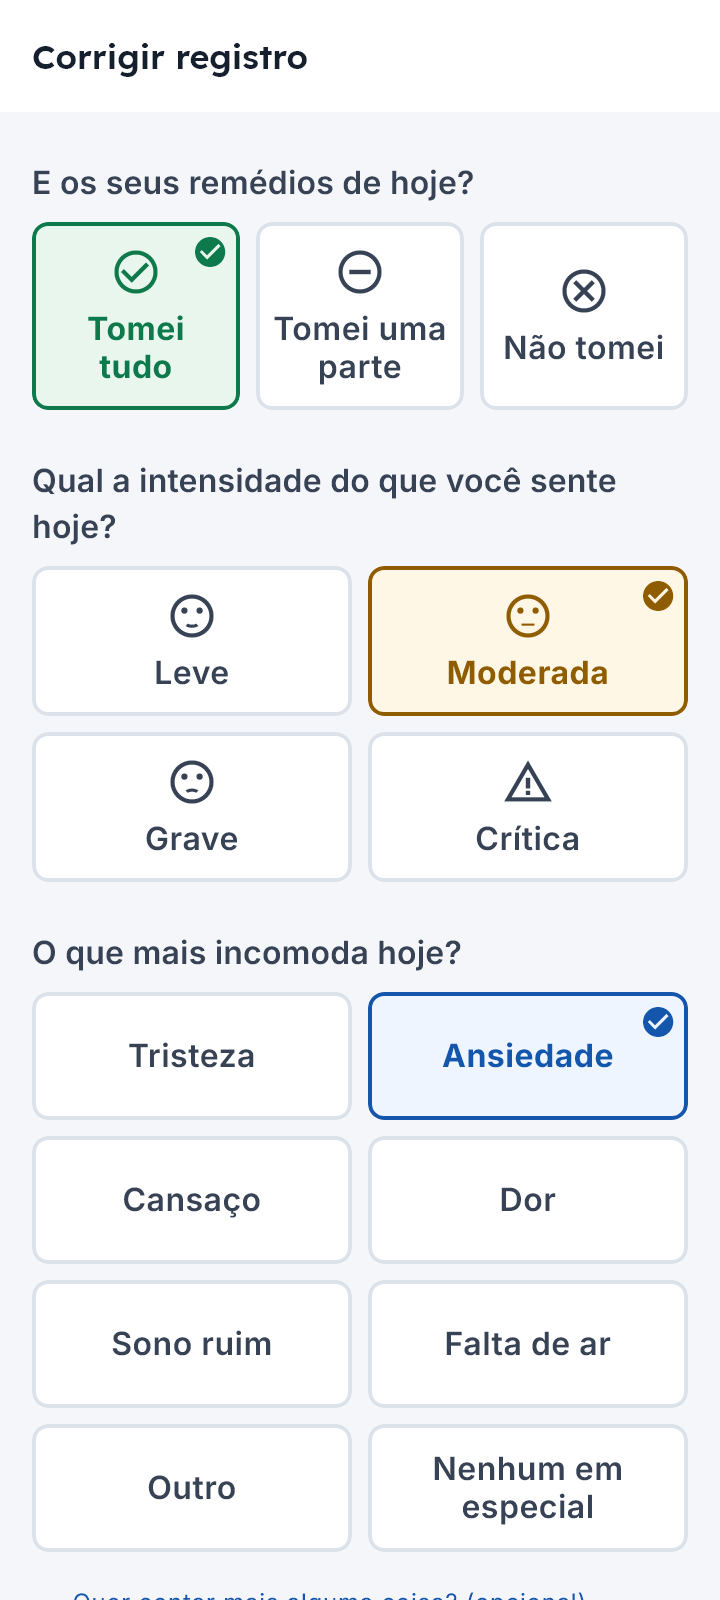
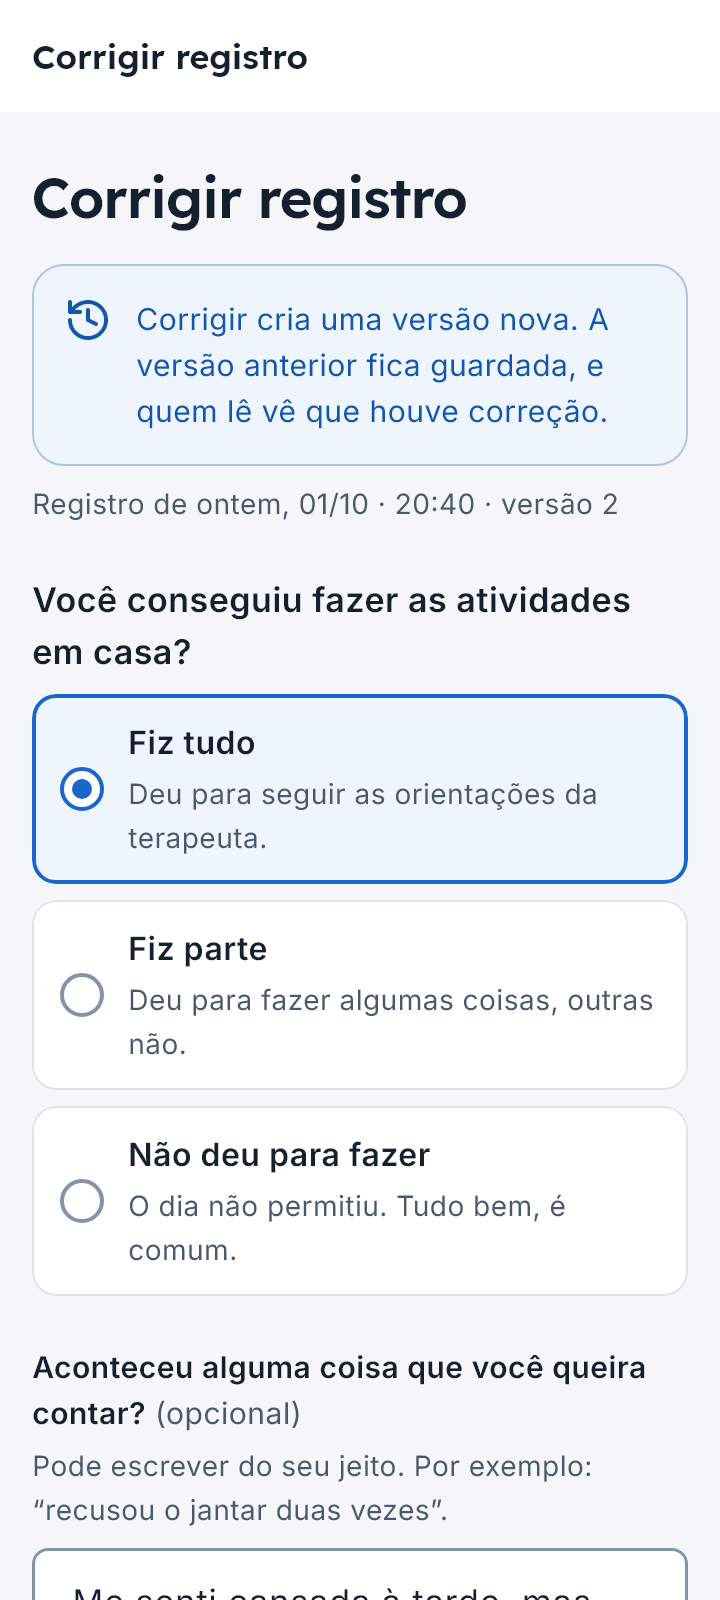
docs(diario): capturas do diário e decisões D38–D43 da P3

diff --git a/docs/estado.md b/docs/estado.md
@@ -3,6 +3,62 @@
 Projeto acadêmico (Dispositivos Móveis, UNEMAT 2026). Não é o app do Terae produção: o produto é um SaaS web, e o
 canal do paciente no produto é um PWA na Play Store.
 
+## Paridade com o portal da família — P3, o diário (27/11/2026, branch `portal-diario`)
+
+Pedido do dono (26/11/2026): o app o mais parecido possível com o portal da família do Terae web (`apps/portal`),
+porque depois ele fará o app real em React Native. No diário, ele escolheu "copiar tudo": as 4 perguntas, a lista com
+os selos, retirar com motivo e as versões. A P4 vai ligar o app ao Terae LOCAL (`/api/portal/*`), e por isso o modelo
+do registro já nasce com os nomes do corpo da API. Nada de produção. Fonte da verdade: `apps/portal/src/telas/diario/*`,
+`packages/contratos/src/portal/index.ts` e os quadros 18e, 18f, 18g e 19d.
+
+### Decisões (do líder, por delegação do dono)
+
+| # | Decisão |
+|---|---|
+| D38 | **D17 revista.** Corrigir cria a versão seguinte (`versao`), e a anterior fica em `versoesAnteriores`, no mesmo documento: "Ver a versão 1" lê dali. Não há mais o limite do mesmo dia. Corrigir e retirar só valem antes da revisão da terapeuta (`revisadoEm`, que só a clínica escreve), nunca no registro que avisou a equipe e nunca no retirado: é o `podeAlterar` do portal, e a recusa é `registroNaoMudaMais` (o 409). "Retirar" com motivo (`dia_errado`, `paciente_errado`, `enviado_sem_querer`, `outro` com detalhe obrigatório de até 300 caracteres) substitui a exclusão lógica: o retirado continua na lista, tachado, com o motivo. O excluído das A4/A5 vira retirado com "Outro" ("Excluído no app antes da mudança do diário.") |
+| D39 | **D8 revista.** O registro usa os nomes do corpo de `POST /portal/diario`: `adesao` (`total`, `parcial`, `nenhuma`), `sintomas` (texto), `intensidadeSintoma` (`leve`, `moderado`, `grave`, `critico`), `observacoes`, e o motivo da retirada com a grafia da API. O `registradoEm` é o `guardadoEm` da API quando o registro esperou na fila. A leitura ainda aceita a grafia antiga (`moderada`, `critica`, `sintomaPredominante`, `observacao`, `excluidoEm`), para o documento que ficou no Firebase antes da semente nova |
+| D40 | **D32 revista.** As 4 perguntas são as do portal, e só a primeira é obrigatória: "Aconteceu alguma coisa que você queira contar?" (texto), "O quanto isso atrapalhou o dia?" (4 cartões e "Deixar sem resposta") e "Quer deixar mais alguma observação?". A primeira muda pela linha de cuidado: com TO, "Vocês conseguiram fazer as atividades em casa?"; só com acompanhamento clínico, "Você conseguiu seguir o tratamento combinado?". A voz segue a D24 ("Fizemos parte" / "Fiz parte"), e quem lê é "a terapeuta" com TO e "a equipe" sem ela. A lista fechada de sintomas sai: o sintoma escolhido das A3–A5 vira o texto contado |
+| D41 | Como no portal, **corrigir e retirar pedem a internet na hora** (sem rede, o botão fica travado com o motivo, e o repositório recusa `semConexao` sem mudar nada). Só o registro novo vai para a fila: "Guardar e enviar depois" aparece sem internet, e a TM04 diz "Registro guardado neste aparelho.", com o SAMU e o CVV quando a resposta foi "Bastante" ou "Muito". O guardado aparece em "Guardados neste aparelho", no alto da lista, com "Enviar agora", e não se corrige até chegar. O "Descartar" do portal não entra: o app não apaga o que a família escreveu (§23) |
+| D42 | O alerta continua o do §7.1: "Muito" sempre, e "Bastante" depois de "Bastante" (a "regra da clínica" do portal); sem resposta, nunca. O registro leva `alertouAEquipe` no mesmo lote do alerta (D18), e a lista diz "A equipe foi avisada". As `firestore.rules` negam a mudança de registro revisado, retirado ou que avisou a equipe, e aceitam só três atualizações: a versão seguinte, a retirada com motivo, e o reenvio da fila que só muda o `enviadoEm` |
+| D43 | Navegação: a aba Diário (TM03) passa a ser a lista, 30 por vez. A TM13 deixa de ser "Meus registros" e vira o "Novo registro" (`/paciente/registros/novo`), e o atalho do Início abre ela. A TM14 é o registro com as versões, e a TM15 é a correção. A TM04 é o recibo do 18f e deixou de voltar sozinha ao Início em 3 s, porque o portal mostra "Corrigir agora" ao lado de "Voltar ao início". A D10 perde o objeto. A busca e o filtro da antiga TM13 saem, porque o portal não os tem |
+
+### O que entrou
+
+- **Dados:**
+  - `RegistroDiario` campo a campo, sem cast, com `EntradaDoDiario`, `VersaoDoRegistro`, `RetiradaDoRegistro` e o
+    enum `MotivoDaRetirada`;
+  - regras puras em `dados/regras/diario.dart` (`podeAlterar`, `maisNovoPrimeiro`, `esperouNaFila`);
+  - `RepositorioDiario` com `pagina` (30 por vez, `antes`), `pendentes`, `corrigir` e `retirar`, na memória e na
+    persistência;
+  - **SQLite v4**: a migração `_versao4` refaz `registros_diario` copiando cada linha (o SQLite não tira `NOT NULL`),
+    e o alerta antigo vira `alertou_a_equipe`;
+  - `firestore.rules` do diário, `semear-firebase.mjs` e `conferir-firebase.mjs`;
+  - a demonstração com revisados, um retirado (dia errado), um corrigido (versão 2), um que esperou na fila
+    ("Escrito em…") e 3 registros do Miguel.
+- **Telas:**
+  - TM03 lista com os selos, "Ver a versão 1", "Corrigir", "Retirar", os guardados, o estado vazio e "Ver
+    registros mais antigos";
+  - TM13 "Novo registro" com o rodapé sem internet;
+  - TM15 com o aviso da versão nova e o 409;
+  - folha "Retirar este registro?";
+  - TM14;
+  - TM04 "Registro enviado." / "Correção enviada." / "Registro guardado neste aparelho." com o recibo;
+  - TM05 com "A equipe da clínica foi avisada.";
+  - widget `GrupoDeCartoes` (o `CartaoDeOpcao` do portal), com ícones lucide e tokens `CoresTerae`.
+
+### Pendências da P3
+
+1. **Firebase acadêmico — pede o ok do dono.** As regras novas e a semente nova não foram publicadas. Até lá, o
+   Firebase tem os registros no formato antigo: o app os lê (D39), mas a regra antiga recusa gravar o formato novo.
+   Comandos, na pasta do app:
+   - `firebase deploy --only firestore:rules`
+   - `node ferramentas/semear-firebase.mjs --reiniciar`
+2. O roteiro no emulador da P3 não foi feito: ele depende do item 1.
+3. O rascunho guardado no aparelho enquanto se escreve (o `useRascunho` do portal) não entrou. O texto do novo
+   registro vive enquanto a tela estiver aberta.
+4. Para a P4: o mapeador da fonte Terae local manda `guardadoEm` = `registradoEm` só no registro que saiu da fila, e
+   a `Idempotency-Key` = `id`.
+
 ## Atividade 5 — finalização do MVP e testes (26/11/2026, branch `atividade-5`)
 
 Decisão do dono: o MVP final é a main da F3 (`389b7b8`). A F4 fica como evolução, e nenhuma funcionalidade nova
@@ -478,7 +534,7 @@ Do líder, por delegação do dono (06/11/2026):
 | # | Decisão |
 |---|---|
 | D16 | SQLite é a fonte local da verdade: o diário é lido do SQLite e a fila de envio são as linhas `naFila`; as cópias de leitura tentam o servidor por 2 s e caem na cópia local; persistência offline do Firestore desligada |
-| D17 | Corrigir e excluir o registro só no mesmo dia civil da clínica; exclusão lógica (`excluidoEm`); alerta já emitido nunca some. Substitui "depois de enviado, o registro não é editado" (A3 §23) |
+| D17 | Corrigir e excluir o registro só no mesmo dia civil da clínica; exclusão lógica (`excluidoEm`); alerta já emitido nunca some. Substitui "depois de enviado, o registro não é editado" (A3 §23). **Revista na P3 (D38)** |
 | D18 | Sem Cloud Functions no Spark, o alerta é avaliado no aparelho e vai no mesmo lote do registro (id derivado do registro: no máximo um); as `firestore.rules` só aceitam alerta de registro grave/crítico |
 | D19 | Web e testes continuam na memória (sqflite não roda na web); a memória ganhou e-mail/senha e o CRUD |
 | D20 | "Sair" encerra o Firebase e apaga o SQLite e as preferências da conta |
@@ -557,7 +613,7 @@ Do plano:
 | D5 | Login Google/Apple simulado ("Escolha uma conta"); Apple só no iOS — **superada pela D14 na Atividade 4** |
 | D6 | Nada persiste no aparelho nesta etapa (RNFM04 cumprido por ausência) — **superada pela D16 na Atividade 4** |
 | D7 | Fuso da clínica fixo em −04:00, com `Relogio` injetável |
-| D8 | Enums com a grafia do docx (`moderada`, `critica`) |
+| D8 | Enums com a grafia do docx (`moderada`, `critica`). **Revista na P3 (D39)** |
 | D9 | Datas da demonstração relativas a hoje |
 | D10 | Seletor com estado semântico, texto ≥ 14 sp, e a TM04 não volta sozinha com leitor de tela |
 | D11 | Painel de demonstração (sem conexão, reiniciar dados) só em modo depuração |

diff --git a/docs/contratos.md b/docs/contratos.md
@@ -73,7 +73,8 @@ Portão: `dart format --set-exit-if-changed lib test`, `flutter analyze` sem iss
 
 ## Atividade 4 (06/11/2026)
 
-**Rotas novas** — `pacienteRegistros` TM13 `/paciente/registros`, `pacienteRegistro` TM14 e
+**Rotas novas** — `pacienteRegistros` TM13 `/paciente/registros` (na P3, 27/11, virou `pacienteNovoRegistro`
+`/paciente/registros/novo`, o "Novo registro"; ver D43 em `docs/estado.md`), `pacienteRegistro` TM14 e
 `pacienteCorrigirRegistro` TM15 (id na consulta: use `Rotas.registro(id)` e `Rotas.corrigirRegistro(id)`), todas em
 `doPaciente`, empilhadas sobre as abas pelo navegador raiz.
 
